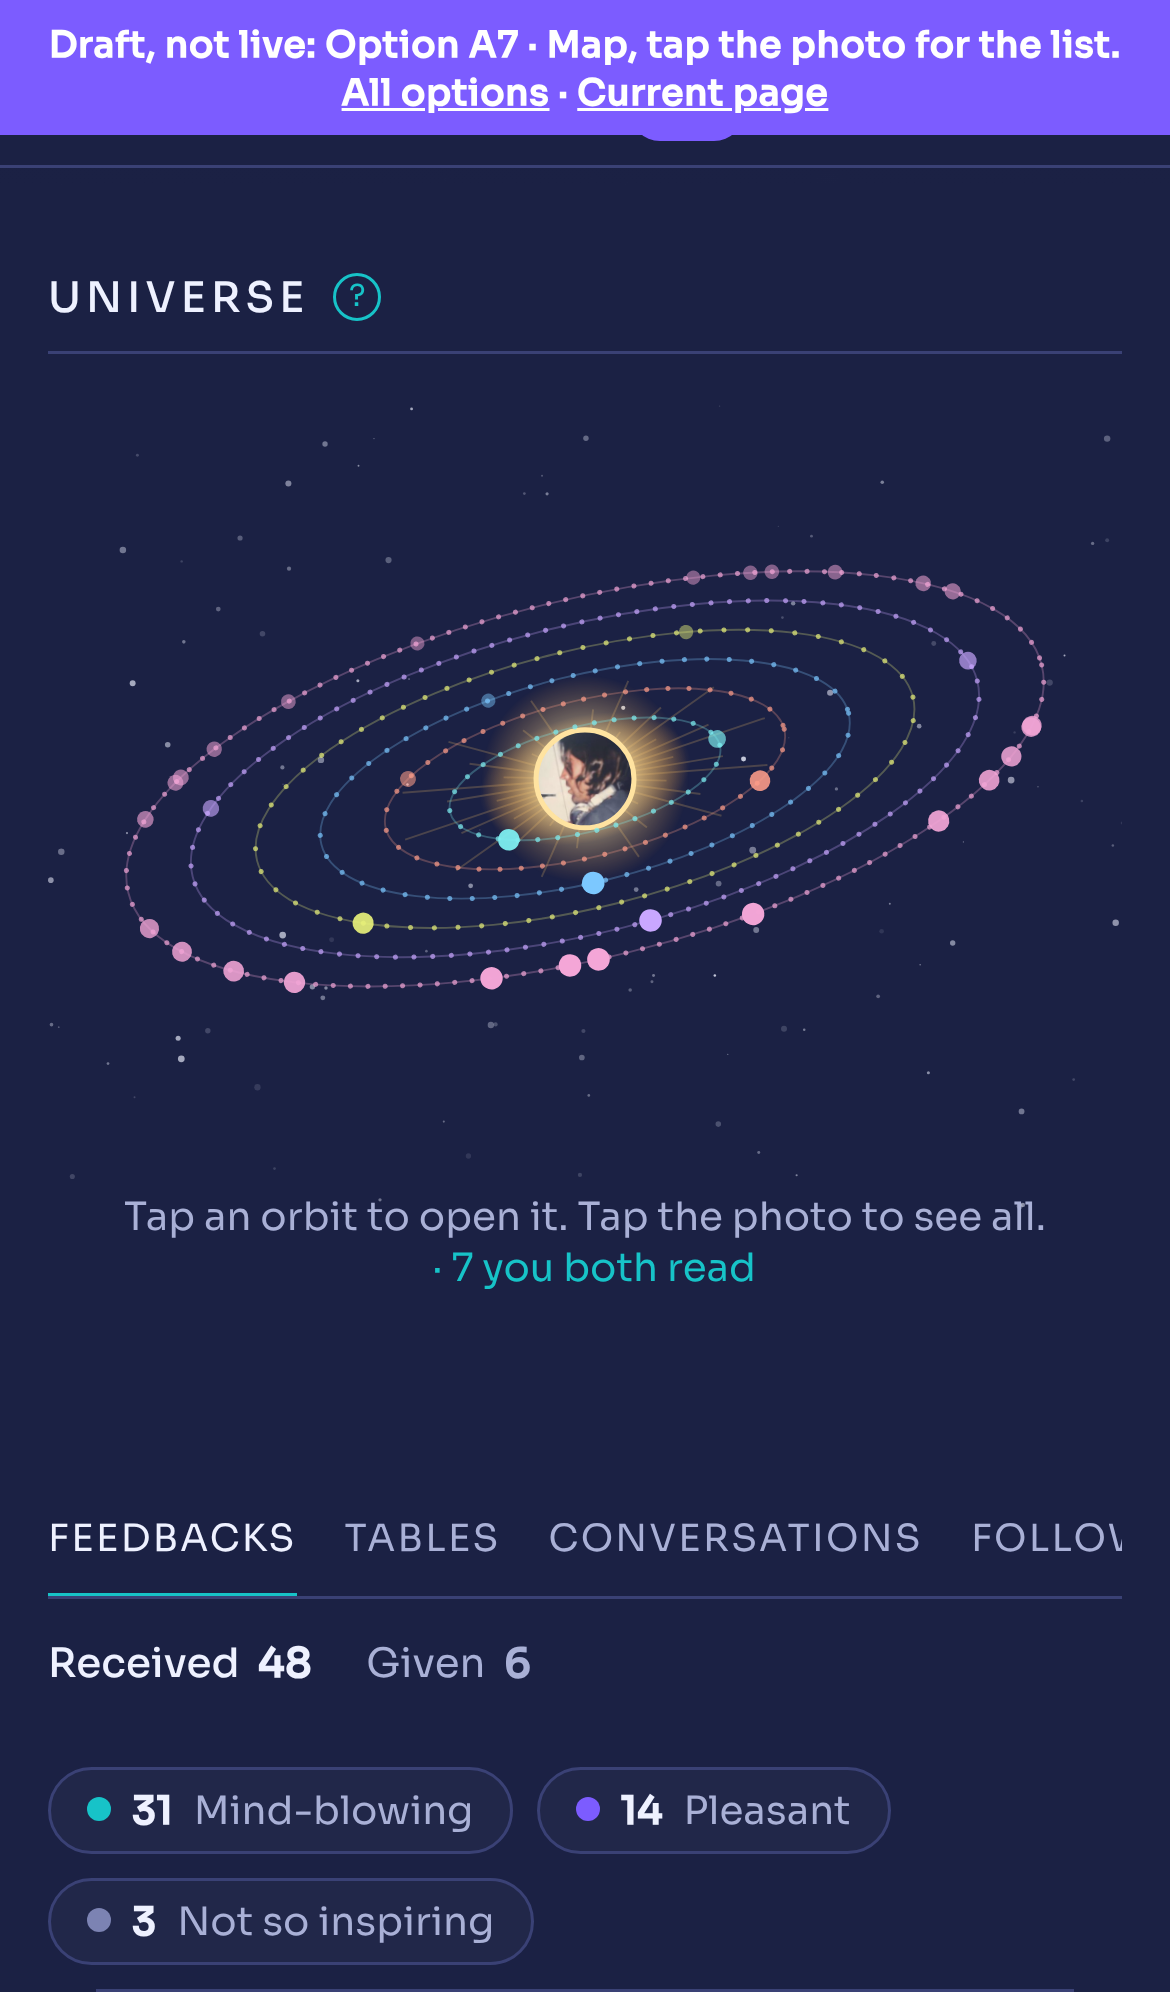
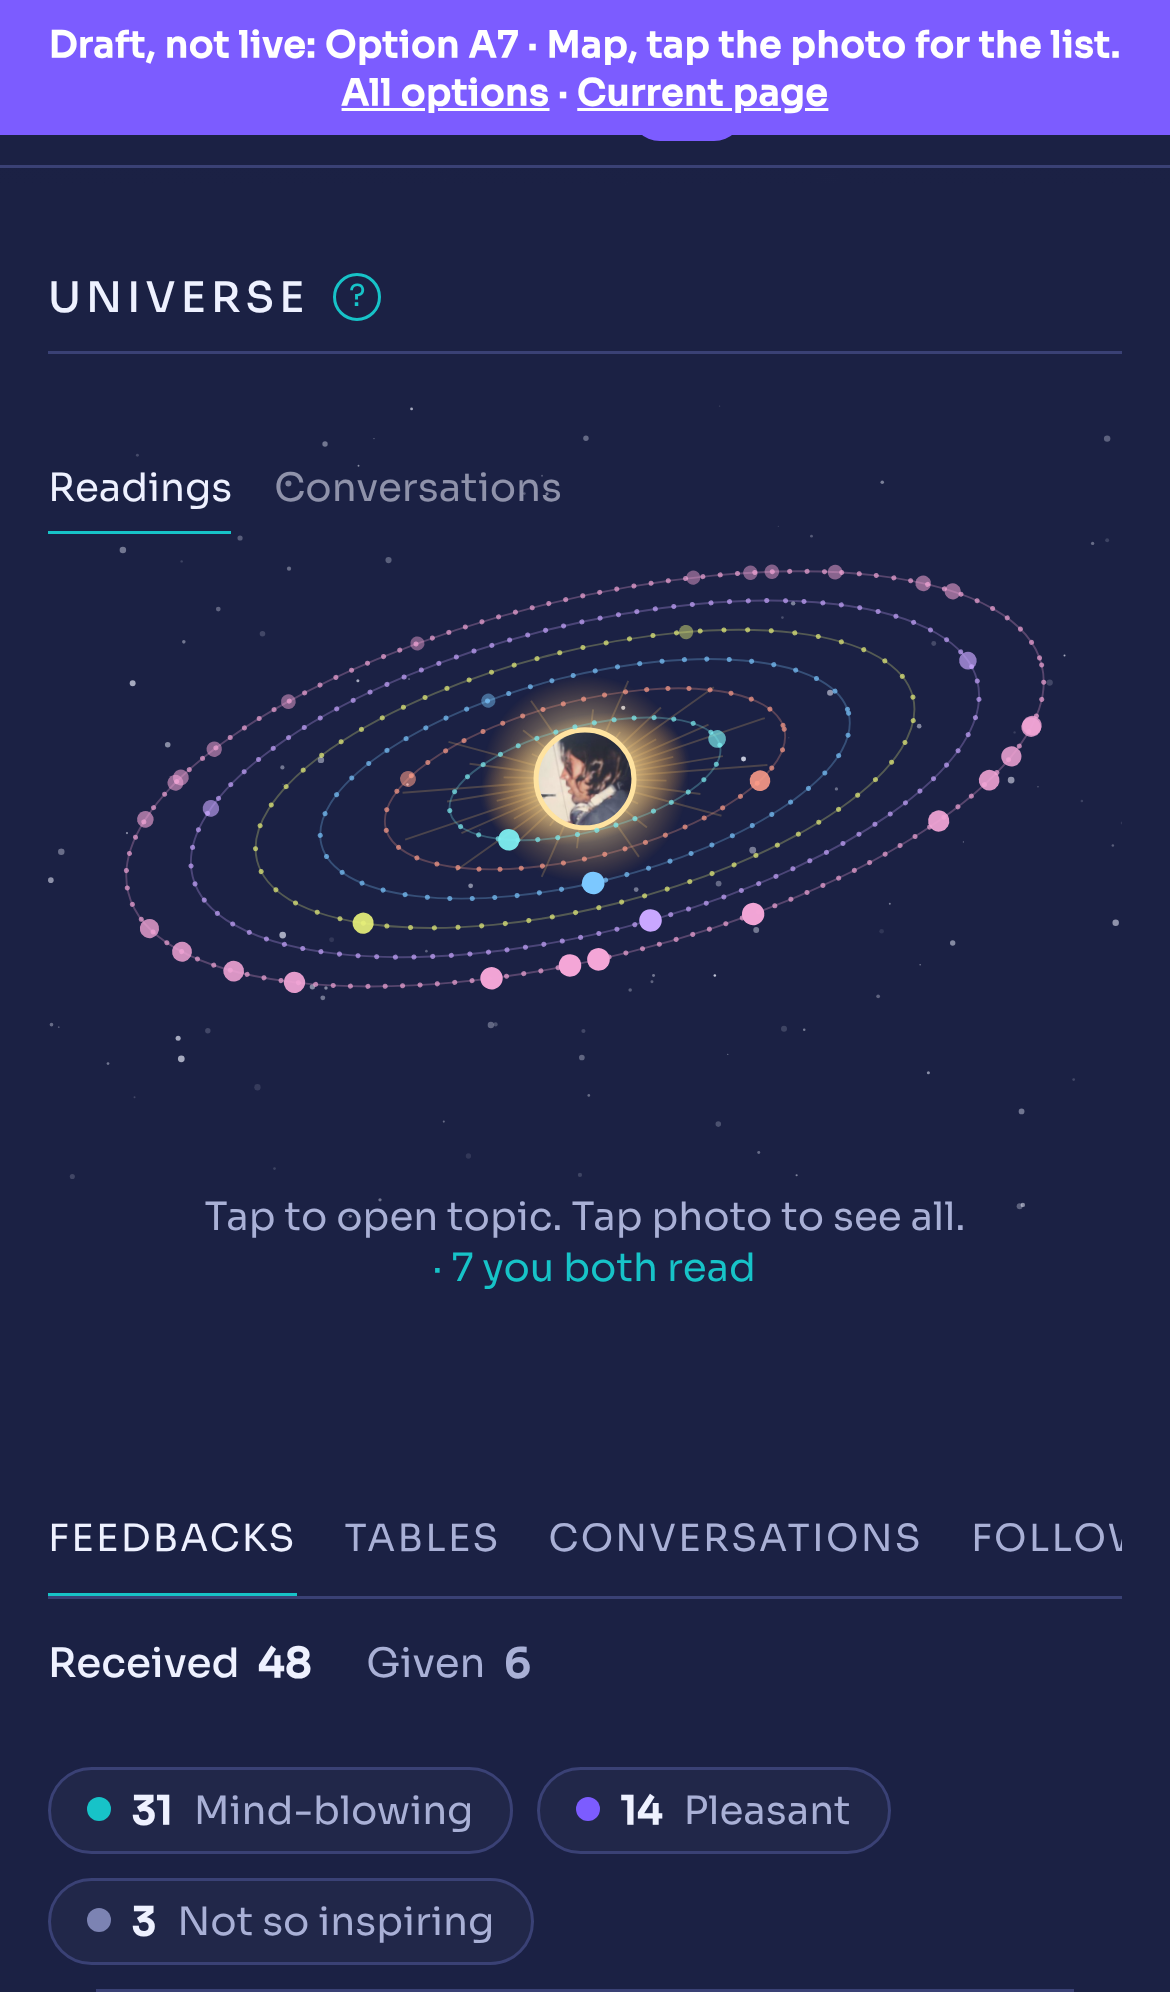
Profile option A7: bring back the Readings | Conversations switch on the map
Claude-Session: https://claude.ai/code/session_018eq6NgwUiJJnwPF1moeBy1

Changed region(s): [[0.1231, 0.5914, 0.8923, 0.6225], [0.0308, 0.2179, 0.1846, 0.2801], [0.2769, 0.2179, 0.4615, 0.249]]

diff --git a/profile-options/option-a7.html b/profile-options/option-a7.html
@@ -774,9 +774,7 @@ body .lbtabs .mix:has(.filt:not([hidden])){display:none}
 .opt-items.all>div.opt-all{display:none!important}
 
 /* A7: map only, no extra tab. A planet opens just its topic, right under the map. */
-.unitog{display:none!important}
 .uni{padding-top:0!important}
-#kbox b.opt-kh~b.opt-kh,#kbox b.opt-kh~b.opt-kh+p{display:none!important}
 .opt-rows>.opt-g:not(:has(>.opt-row[aria-expanded=true])){display:none}
 .opt-rows:not(:has(.opt-row[aria-expanded=true])){display:none}
 .opt-rows{border-top:0;margin-top:6px}
@@ -796,6 +794,7 @@ body.opt-allrows #uniview{display:none!important}
 body.opt-allrows .opt-rows{margin-top:0}
 body.opt-allrows .opt-row[aria-expanded=false] svg{visibility:hidden}
 body.opt-allrows .opt-hint{display:none}
+.opt-hint button[hidden]{display:none}
 </style></head><body><div class="optbar">Draft, not live: Option A7 · Map, tap the photo for the list. <a href="index.html" style="color:#fff">All options</a> · <a href="../profile/timecapsule-profile.html" style="color:#fff">Current page</a></div>
 <svg width="0" height="0" style="position:absolute" aria-hidden="true"><defs><linearGradient id="cg" x1="0" y1="0" x2="1" y2="1"><stop offset="0" stop-color="#F9DA74"/><stop offset="1" stop-color="#F0C858"/></linearGradient><symbol id="coin" viewBox="0 0 40 40"><circle cx="20" cy="20" r="19.2" fill="#E2AC3C" stroke="#B07A1C" stroke-width="1.4"/><circle cx="20" cy="20" r="17.6" fill="none" stroke="#FFE38A" stroke-width="1.6" stroke-dasharray="1 1.4"/><circle cx="20" cy="20" r="15.2" fill="url(#cg)" stroke="#B07A1C" stroke-width="1.1"/><circle cx="20" cy="20" r="12.4" fill="none" stroke="#C98F22" stroke-opacity=".6" stroke-width=".9"/><path d="M20 12V20L25.5 23.2" fill="none" stroke="#9A6614" stroke-width="2.2" stroke-linecap="round" stroke-linejoin="round"/><circle cx="20" cy="20" r="1.8" fill="#9A6614"/></symbol></defs></svg>
 
@@ -2278,26 +2277,31 @@ mo.observe(u,{childList:true,subtree:true,attributes:true,attributeFilter:['aria
 (function(){
  window.__optNoScroll=1;
  var view=document.getElementById('uniview'),rows=document.querySelector('.opt-rows');if(!view||!rows)return;
- var rb=document.querySelector('.unitog button[data-m="read"]');if(rb&&rb.getAttribute('aria-pressed')!=='true')rb.click();
  var X='<svg viewBox="0 0 24 24" width="14" height="14" fill="none" stroke="currentColor" stroke-width="2" stroke-linecap="round" aria-hidden="true"><path d="M6 6l12 12M18 6L6 18"/></svg>';
- function fix(){rows.querySelectorAll('.opt-row').forEach(function(b){var s=b.querySelector('svg');if(s&&!s.dataset.x){s.outerHTML=X;b.querySelector('svg').dataset.x=1;b.setAttribute('aria-label',b.textContent.trim()+', close')}})}
- fix();new MutationObserver(fix).observe(rows,{childList:true});
- var hint=document.createElement('p');hint.className='opt-hint';hint.textContent='Tap to open topic. Tap photo to see all.';rows.before(hint);
- var mut=rows.querySelector('.opt-g[data-k="__mut"]');
- if(mut){var n=mut.lastChild.querySelectorAll(':scope>div:not(.opt-all)').length,b=document.createElement('button');b.type='button';b.textContent='· '+n+' you both read';
-  b.addEventListener('click',function(){var y=scrollY;rows.querySelectorAll(':scope>.opt-g').forEach(function(o){var on=o===mut;o.firstChild.setAttribute('aria-expanded',on);o.lastChild.hidden=!on});window.scrollTo(0,y)});hint.appendChild(b)}
-
- // tapping the photo shows every topic (each opens in place)
- var head=document.createElement('div');head.className='opt-allhead';head.innerHTML='<span>All topics</span><button type="button">Back to the map</button>';rows.prepend(head);
- function all(on){document.body.classList.toggle('opt-allrows',on);if(!on)rows.querySelectorAll('.opt-row[aria-expanded=true]').forEach(function(b){b.click()})}
+ var hint=document.createElement('p');hint.className='opt-hint';hint.innerHTML='<span>Tap to open topic. Tap photo to see all.</span>';rows.before(hint);
+ var mb=document.createElement('button');mb.type='button';hint.appendChild(mb);
+ var head=document.createElement('div');head.className='opt-allhead';head.innerHTML='<span>All topics</span><button type="button">Back to the map</button>';
  head.querySelector('button').addEventListener('click',function(){all(false)});
- var sun=document.querySelector('#uni .sunav');
- if(sun){sun.setAttribute('tabindex','0');sun.setAttribute('role','button');sun.setAttribute('aria-label','See all topics as a list');
-  var go=function(e){e.stopImmediatePropagation();e.preventDefault();rows.querySelectorAll('.opt-row[aria-expanded=true]').forEach(function(b){b.setAttribute('aria-expanded','false');b.nextSibling.hidden=true});all(true);var h=document.getElementById('uni-h');if(h&&h.getBoundingClientRect().top<0)h.scrollIntoView({block:'start'})};
-  var onSun=function(e){if(e.target.closest&&e.target.closest('.sunav'))return true;if(e.clientX==null)return false;var r=sun.getBoundingClientRect();return e.clientX>=r.left&&e.clientX<=r.right&&e.clientY>=r.top&&e.clientY<=r.bottom};
-  view.addEventListener('click',function(e){if(!document.body.classList.contains('opt-allrows')&&onSun(e))go(e)},true);
-  sun.addEventListener('keydown',function(e){if(e.key==='Enter'||e.key===' ')go(e)},true)}
- var host=view.closest('.uni')||document.body;
- new MutationObserver(function(){document.body.classList.toggle('uni-a7open',!!rows.querySelector('.opt-row[aria-expanded=true]'))}).observe(rows,{subtree:true,attributes:true,attributeFilter:['aria-expanded']});
+ function mut(){return rows.querySelector('.opt-g[data-k="__mut"]')}
+ mb.addEventListener('click',function(){var m=mut();if(!m)return;var y=scrollY;rows.querySelectorAll(':scope>.opt-g').forEach(function(o){var on=o===m;o.firstChild.setAttribute('aria-expanded',on);o.lastChild.hidden=!on});window.scrollTo(0,y)});
+ // after every render (Readings or Conversations): close icons, the All topics header, the mutual link
+ var busy=false;
+ function fix(){if(busy)return;busy=true;
+  rows.querySelectorAll('.opt-row').forEach(function(b){var s=b.querySelector('svg');if(s&&!s.dataset.x){s.outerHTML=X;b.querySelector('svg').dataset.x=1;b.setAttribute('aria-label',b.textContent.trim()+', close')}});
+  if(rows.firstChild!==head)rows.prepend(head);
+  var m=mut();mb.hidden=!m;if(m)mb.textContent='· '+m.lastChild.querySelectorAll(':scope>div:not(.opt-all)').length+' you both read';
+  busy=false}
+ fix();new MutationObserver(fix).observe(rows,{childList:true});
+ function all(on){document.body.classList.toggle('opt-allrows',on);rows.querySelectorAll('.opt-row[aria-expanded=true]').forEach(function(b){b.setAttribute('aria-expanded','false');b.nextSibling.hidden=true})}
+ // switching Readings / Conversations goes back to the map
+ document.querySelectorAll('.unitog button').forEach(function(b){b.addEventListener('click',function(){all(false)})});
+ // tapping the photo swaps the map for the list of all topics
+ function sun(){return document.querySelector('#uni .sunav')}
+ function go(e){e.stopImmediatePropagation();e.preventDefault();all(true);var h=document.getElementById('uni-h');if(h&&h.getBoundingClientRect().top<0)h.scrollIntoView({block:'start'})}
+ function onSun(e){var s=sun();if(!s)return false;if(e.target.closest&&e.target.closest('.sunav'))return true;if(!e.clientX&&!e.clientY)return false;var r=s.getBoundingClientRect();return e.clientX>=r.left&&e.clientX<=r.right&&e.clientY>=r.top&&e.clientY<=r.bottom}
+ view.addEventListener('click',function(e){if(!document.body.classList.contains('opt-allrows')&&onSun(e))go(e)},true);
+ view.addEventListener('keydown',function(e){if((e.key==='Enter'||e.key===' ')&&e.target.closest&&e.target.closest('.sunav'))go(e)},true);
+ function tagSun(){var s=sun();if(s&&!s.hasAttribute('tabindex')){s.setAttribute('tabindex','0');s.setAttribute('role','button');s.setAttribute('aria-label','See all topics as a list')}}
+ tagSun();new MutationObserver(tagSun).observe(document.getElementById('uni'),{childList:true});
 })();
 });</script></body></html>

diff --git a/profile-options/a7.js b/profile-options/a7.js
@@ -1,25 +1,30 @@
 (function(){
  window.__optNoScroll=1;
  var view=document.getElementById('uniview'),rows=document.querySelector('.opt-rows');if(!view||!rows)return;
- var rb=document.querySelector('.unitog button[data-m="read"]');if(rb&&rb.getAttribute('aria-pressed')!=='true')rb.click();
  var X='<svg viewBox="0 0 24 24" width="14" height="14" fill="none" stroke="currentColor" stroke-width="2" stroke-linecap="round" aria-hidden="true"><path d="M6 6l12 12M18 6L6 18"/></svg>';
- function fix(){rows.querySelectorAll('.opt-row').forEach(function(b){var s=b.querySelector('svg');if(s&&!s.dataset.x){s.outerHTML=X;b.querySelector('svg').dataset.x=1;b.setAttribute('aria-label',b.textContent.trim()+', close')}})}
- fix();new MutationObserver(fix).observe(rows,{childList:true});
- var hint=document.createElement('p');hint.className='opt-hint';hint.textContent='Tap to open topic. Tap photo to see all.';rows.before(hint);
- var mut=rows.querySelector('.opt-g[data-k="__mut"]');
- if(mut){var n=mut.lastChild.querySelectorAll(':scope>div:not(.opt-all)').length,b=document.createElement('button');b.type='button';b.textContent='· '+n+' you both read';
-  b.addEventListener('click',function(){var y=scrollY;rows.querySelectorAll(':scope>.opt-g').forEach(function(o){var on=o===mut;o.firstChild.setAttribute('aria-expanded',on);o.lastChild.hidden=!on});window.scrollTo(0,y)});hint.appendChild(b)}
-
- // tapping the photo shows every topic (each opens in place)
- var head=document.createElement('div');head.className='opt-allhead';head.innerHTML='<span>All topics</span><button type="button">Back to the map</button>';rows.prepend(head);
- function all(on){document.body.classList.toggle('opt-allrows',on);if(!on)rows.querySelectorAll('.opt-row[aria-expanded=true]').forEach(function(b){b.click()})}
+ var hint=document.createElement('p');hint.className='opt-hint';hint.innerHTML='<span>Tap to open topic. Tap photo to see all.</span>';rows.before(hint);
+ var mb=document.createElement('button');mb.type='button';hint.appendChild(mb);
+ var head=document.createElement('div');head.className='opt-allhead';head.innerHTML='<span>All topics</span><button type="button">Back to the map</button>';
  head.querySelector('button').addEventListener('click',function(){all(false)});
- var sun=document.querySelector('#uni .sunav');
- if(sun){sun.setAttribute('tabindex','0');sun.setAttribute('role','button');sun.setAttribute('aria-label','See all topics as a list');
-  var go=function(e){e.stopImmediatePropagation();e.preventDefault();rows.querySelectorAll('.opt-row[aria-expanded=true]').forEach(function(b){b.setAttribute('aria-expanded','false');b.nextSibling.hidden=true});all(true);var h=document.getElementById('uni-h');if(h&&h.getBoundingClientRect().top<0)h.scrollIntoView({block:'start'})};
-  var onSun=function(e){if(e.target.closest&&e.target.closest('.sunav'))return true;if(e.clientX==null)return false;var r=sun.getBoundingClientRect();return e.clientX>=r.left&&e.clientX<=r.right&&e.clientY>=r.top&&e.clientY<=r.bottom};
-  view.addEventListener('click',function(e){if(!document.body.classList.contains('opt-allrows')&&onSun(e))go(e)},true);
-  sun.addEventListener('keydown',function(e){if(e.key==='Enter'||e.key===' ')go(e)},true)}
- var host=view.closest('.uni')||document.body;
- new MutationObserver(function(){document.body.classList.toggle('uni-a7open',!!rows.querySelector('.opt-row[aria-expanded=true]'))}).observe(rows,{subtree:true,attributes:true,attributeFilter:['aria-expanded']});
+ function mut(){return rows.querySelector('.opt-g[data-k="__mut"]')}
+ mb.addEventListener('click',function(){var m=mut();if(!m)return;var y=scrollY;rows.querySelectorAll(':scope>.opt-g').forEach(function(o){var on=o===m;o.firstChild.setAttribute('aria-expanded',on);o.lastChild.hidden=!on});window.scrollTo(0,y)});
+ // after every render (Readings or Conversations): close icons, the All topics header, the mutual link
+ var busy=false;
+ function fix(){if(busy)return;busy=true;
+  rows.querySelectorAll('.opt-row').forEach(function(b){var s=b.querySelector('svg');if(s&&!s.dataset.x){s.outerHTML=X;b.querySelector('svg').dataset.x=1;b.setAttribute('aria-label',b.textContent.trim()+', close')}});
+  if(rows.firstChild!==head)rows.prepend(head);
+  var m=mut();mb.hidden=!m;if(m)mb.textContent='· '+m.lastChild.querySelectorAll(':scope>div:not(.opt-all)').length+' you both read';
+  busy=false}
+ fix();new MutationObserver(fix).observe(rows,{childList:true});
+ function all(on){document.body.classList.toggle('opt-allrows',on);rows.querySelectorAll('.opt-row[aria-expanded=true]').forEach(function(b){b.setAttribute('aria-expanded','false');b.nextSibling.hidden=true})}
+ // switching Readings / Conversations goes back to the map
+ document.querySelectorAll('.unitog button').forEach(function(b){b.addEventListener('click',function(){all(false)})});
+ // tapping the photo swaps the map for the list of all topics
+ function sun(){return document.querySelector('#uni .sunav')}
+ function go(e){e.stopImmediatePropagation();e.preventDefault();all(true);var h=document.getElementById('uni-h');if(h&&h.getBoundingClientRect().top<0)h.scrollIntoView({block:'start'})}
+ function onSun(e){var s=sun();if(!s)return false;if(e.target.closest&&e.target.closest('.sunav'))return true;if(!e.clientX&&!e.clientY)return false;var r=s.getBoundingClientRect();return e.clientX>=r.left&&e.clientX<=r.right&&e.clientY>=r.top&&e.clientY<=r.bottom}
+ view.addEventListener('click',function(e){if(!document.body.classList.contains('opt-allrows')&&onSun(e))go(e)},true);
+ view.addEventListener('keydown',function(e){if((e.key==='Enter'||e.key===' ')&&e.target.closest&&e.target.closest('.sunav'))go(e)},true);
+ function tagSun(){var s=sun();if(s&&!s.hasAttribute('tabindex')){s.setAttribute('tabindex','0');s.setAttribute('role','button');s.setAttribute('aria-label','See all topics as a list')}}
+ tagSun();new MutationObserver(tagSun).observe(document.getElementById('uni'),{childList:true});
 })();

diff --git a/profile-options/a7.css b/profile-options/a7.css
@@ -1,7 +1,5 @@
 /* A7: map only, no extra tab. A planet opens just its topic, right under the map. */
-.unitog{display:none!important}
 .uni{padding-top:0!important}
-#kbox b.opt-kh~b.opt-kh,#kbox b.opt-kh~b.opt-kh+p{display:none!important}
 .opt-rows>.opt-g:not(:has(>.opt-row[aria-expanded=true])){display:none}
 .opt-rows:not(:has(.opt-row[aria-expanded=true])){display:none}
 .opt-rows{border-top:0;margin-top:6px}
@@ -21,3 +19,4 @@ body.opt-allrows #uniview{display:none!important}
 body.opt-allrows .opt-rows{margin-top:0}
 body.opt-allrows .opt-row[aria-expanded=false] svg{visibility:hidden}
 body.opt-allrows .opt-hint{display:none}
+.opt-hint button[hidden]{display:none}
